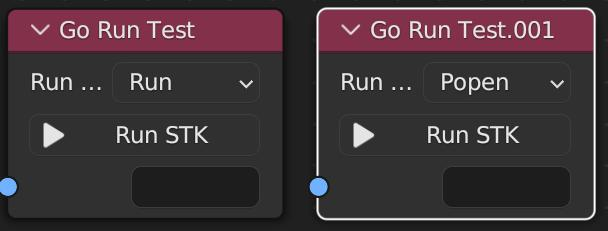
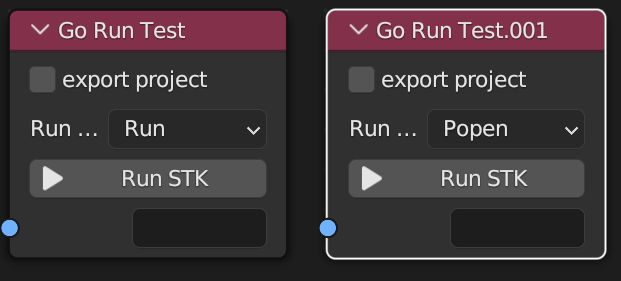
update doc 'node running'

diff --git a/doc/doc_fr.md b/doc/doc_fr.md
@@ -53,6 +53,7 @@ Peuvent être utilsez à la suite pour un visuel plus agréable
 ## Nœuds Go Run Test
 
 est le seul nœud réellement obligatoire car c'est lui qui lance l'excution de la commande construit avec l'arbre de nœud
+- **export project** : active l'opérateur d'exportation de piste avant de lancer un test
 - **Run** : lance la commande à partir de Blender (bloc l'interface utilisateur de Blender)
 - **Popen** : lance la commande indépendament de Blender (ne bloc pas l'interface utilisateur de Blender)
 

diff --git a/doc/doc_en.md b/doc/doc_en.md
@@ -53,6 +53,7 @@ Can be chained together for a cleaner visual layout.
 ## Go Run Test Nodes
 
 Is the only truly mandatory node since it launches the execution of the command built with the node tree.
+- **export project** : activate export track operator before running test
 - **Run** : launches the command from Blender (blocks the Blender user interface).
 - **Popen** : launches the command independently of Blender (does not block the Blender user interface).
 
